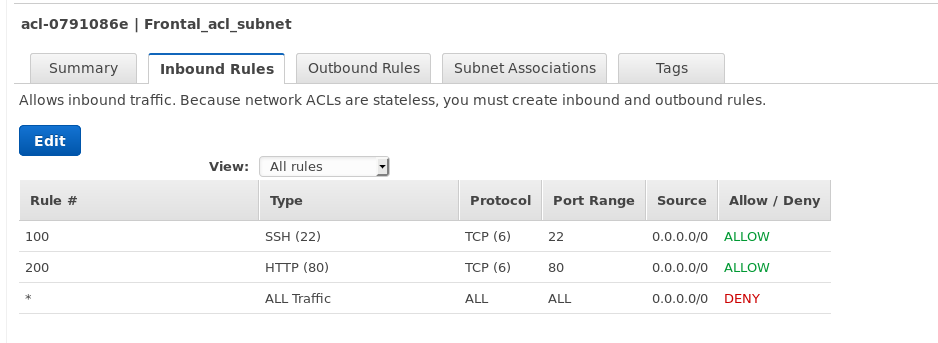
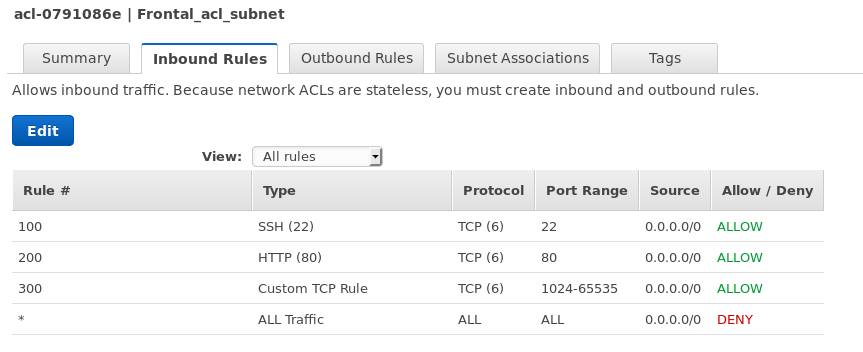
Suite pour le VPC

diff --git a/aws/03-operation-EC2.md b/aws/03-operation-EC2.md
@@ -548,14 +548,58 @@ Donc nous avons 3 sous réseau dans le même __VPC__ :
 Comme nous pouvons le voir chaque sous-réseau à ses règles de pare feu qui permet de limité les communications avec le restes des réseaux , nous avons donc 3 pare feu pour les __subnet__ . Ceci vous permet de limiter l'accès pour l'ensemble de la "zone" . Ceci permet de gérer à plus haut niveau pour un regroupement de machine. 
 Bien entendu l'objectif est de limiter l'accès aux machine , dans l'exemple ci-dessus si une machines dans le réseau **frontal** est compromise , l'attaquant  ne sera pas en mesure d'établir une connexion **ssh** vers le serveur applicatif !
 
-Les groupes de sécurité (pare feu au niveau instance EC2) est toujours présent si vous désirez réalisé de la gestion granulaire par instance ! 
+Bien que la présence d'un pare feu est toujours présent lors de la définition d'un sous-réseau sont utilisation est optionnel. Vous pouvez laisser l'ensemble des communications ouverte et faire la gestion des règles uniquement au niveau du groupe de sécurité des instances. Prendre note que par défaut le __VPC__ ainsi que son sous-réseau par défaut n'a PAS de limitation d'accès.
+
+Si vous désirez mettre en place une restriction il y a quelque point important à savoir ( Faites pas la même erreur que moi :P ) :
+
+* **Les listes ACL réseau sont sans état. Les réponses au trafic entrant autorisé sont soumises aux règles du trafic sortant (et vice versa).**
+* Vous pouvez créer une __ACL__ personnalisée et l'associer à un sous-réseau. Par défaut, chaque liste ACL réseau personnalisée refuse tout trafic entrant et sortant jusqu'à ce que vous ajoutiez des règles. 
+* Le sous réseau ne peut n'avoir que UNE  __ACL__ associé , contrairement à une instance qui peut avoir plusieurs groupe de sécurité associer. 
+* Chaque règles dans __l'ACL__ est numéroté de 100 au maximum  32 766 , lors du traitement d'un paquet les règles sont traité du numéro le plus petit au plus grand. Si une règle concorde au paquet il arrête l'analyse des règles et sorte (Accepté ou Refusé)
+* Les règles sont entrantes et sortantes , et chaque règle peut autoriser ou refuser le trafic. 
+
+    :référence [http://docs.aws.amazon.com/fr\_fr/AmazonVPC/latest/UserGuide/VPC\_ACLs.html](http://docs.aws.amazon.com/fr_fr/AmazonVPC/latest/UserGuide/VPC_ACLs.html)
+
+Dans la liste précédente , le plus problématique est que les règles de pare feu sont **SANS ÉTAT** (__State less__) donc __L2__. [Ref](https://en.wikipedia.org/wiki/Stateful_firewall). 
+
+Pour les personnes moins confortables avec le concept de pare feu avec gestion d'état (__StateFull__) et (__StateLess__), une information "ultra" rapide , je vous invite à chercher plus d'information. Soit dit en passant , il y a une playlist de vidéo explicatif sur [les concepts réseau sur  ma chaine Youtube](https://www.youtube.com/playlist?list=PLrspRZ5MjONxKHTRosSqh2K3Ufomebk0g)
+
+Prenons une communication réseau "classique" 
+
+![](./imgs/tcp_connexion_state.png)
+
+Et la capture réseau dans __wireshark__ 
+
+![](./imgs/wireshark-comm-laptop-x3rus.png)
+
+Comme vous pouvez le voir :
+
+1. Le client (192.168.43.245) communique vers le serveur web (192.99.13.211) sur le **port 80** 
+2. La communication provient du port dynamique ou éphémère du **port client 34068**, prendre note que actuellement c'est ce numéro si je refait une autre connexion le port va changer.
+
+* Situation avec un **pare feu AVEC état (statefull)** : 
+    * Si la règle indique que les communications entrante sont permit sur le port sur le port 80 il laissera les communications sortir vers un autre port pour la communication en cours. En d'autre mot il ne traite pas chaque paquet indépendamment mais il regarde l'état de la communication s'il a déjà permis un paquet en relation avec cette communication.
+* Situation avec un **pare feu SANS état (stateless)** :
+    * Chaque paquet est traité indépendamment des communications précédente. En d'autre mot si nous avons indiqué que la communication vers le port 80 est permet le paquet __SYN__ sera transmis . Mais si le paquet vers le port 34068 ne sera pas permit en sortie à moins qu'il soit explicitement définie.
+
+Pas besoin de vous dire qu'une fois avoir travaillé avec des pare feu avec état revenir au mode sans état est plutôt pénible ( le vrai mot c'est casse couilles :P) .
+
+Vous me direz donc mais comment faire alors pour permettre le retour de communication sur les ports dynamique ou éphémère dans le cas d'une communication __TCP__ ? Simple ouvrir les ports voici une représentation possible :
+
+|Protocole| ports      | IP Destination | Action    | Description |
+|:--------|:----------:|----------------|----------:|-------------|
+| TCP     | 1024-65535 | 0.0.0.0/0      | AUTORISER | Autorise les réponses sortantes vers l'ordinateur distant cette règle est requise pour autoriser le trafic de réponse pour les demandes entrantes.  |
+
+Donc à la lumière en prenant en considération le problème de l'état des communications (__stateless__) pour la définition des règles de pare feu sur le __VPC__ je pense que l'utilisation la plus réaliste est de l'utiliser uniquement pour réaliser de la limitation par __IP__ et non par port. La raison est simple vous serez obligé de laisser un nombre de trou béant dans votre pare feu pour l'ensemble des retours.
+
+Les groupes de sécurité (pare feu au niveau instance EC2) est toujours présent si vous désirez réalisé de la gestion par instance ! 
 Pour finir vous avez aussi un pare feu (__firewall__) pour l'ensemble des communications qui sort du __VPC__.
 
 Je sais ceci fait beaucoup de __firewall__ à différent niveau , bien entendu il n'est pas obligatoire de les activer tous , par exemple par défaut les règles définie dans le __firewall__ du __VPC__ sont ouvert au complet . Réalisons une liste des __firewalls__ du plus spécifique au plus général.
 
-1. __sécurity group__ : __firewall__ de la machine / instance __EC2__
-2. __firewall__ du sous-réseau : __firewall__ appliqué à un regroupement de machines / instances 
-3. __firewal__ du __VPC__ : __firewall__ du regroupement de sous réseau.
+1. __sécurity group__ : __firewall__ de la machine / instance __EC2__ (**statefull**)
+2. __firewall__ du sous-réseau : __firewall__ appliqué à un regroupement de machines / instances (**stateless**)
+3. __firewal__ du __VPC__ : __firewall__ du regroupement de sous réseau (**stateless**).
 
 
 Selon votre niveau de maturité et bien entendu de vos besoins il est possible de créer d'autre __VPC__ qui regrouperont d'autre __sous-réseaux__ honnêtement pour le moment je ne vois pas le requis ... Cependant je voulais le signaler.
@@ -769,11 +813,11 @@ Nous allons débuter par la création des __ACL__ puis les sous-réseaux , car l
     * Édition :
 
     ![](./imgs/demo-aws-vpc-05-edit-acl-input.png)
-    * Résultat (c'est surtout pour démontrer que automatiquement __AWS__ rajouter la règles de REFUS ): 
+    * Résultat (c'est surtout pour démontrer que automatiquement __AWS__ rajouter la règles de REFUS ) **stateless** donc range de ports énorme: 
 
     ![](./imgs/demo-aws-vpc-06-view-acl-input.png)
 
-7. Édition des règles de sortie, dans notre cas aucune opération n'est requise.
+7. Édition des règles de sortie, dans notre cas aucune opération n'est requise. **stateless** donc range de port énorme
 
     ![](./imgs/demo-aws-vpc-07-view-acl-output.png)
 
